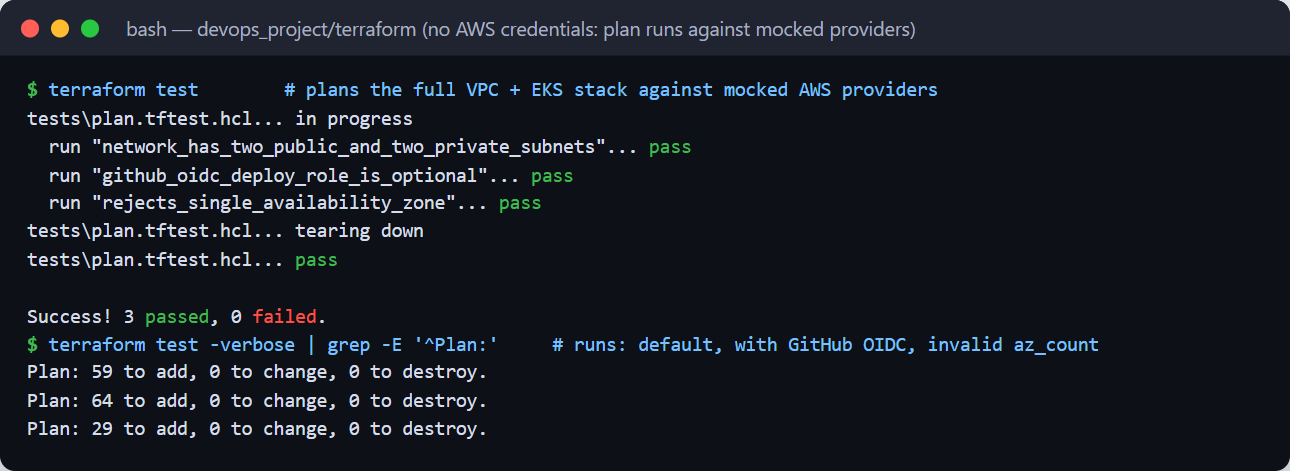
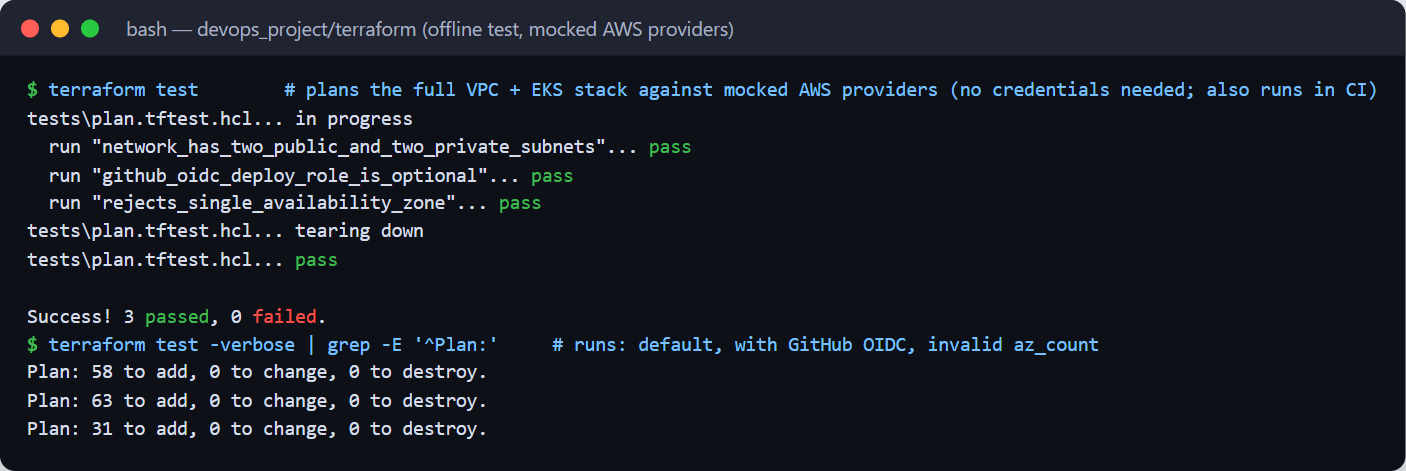
docs: add real AWS evidence for Terraform (plan, apply, Console, kubectl, destroy)

diff --git a/docs/SCREENSHOTS.md b/docs/SCREENSHOTS.md
@@ -83,20 +83,42 @@ Local environment: Docker Compose for M1/M4, and a 3-node **kind** Kubernetes cl
 
 Written explanation: [SECURITY.md](SECURITY.md#trivy-container-scanning-what-it-does-and-what-the-result-means).
 
-## M7 - Terraform
+## M7 - Terraform (real AWS)
 
-> **Still to do with your AWS account.** No AWS credentials were available when these were
-> captured, so the images below prove the code is valid and plans cleanly **against mocked
-> AWS providers**. They are not the real `terraform plan`. Add the real screenshots with
-> [AWS-EKS-GUIDE.md](AWS-EKS-GUIDE.md):
-> `terraform plan` · AWS Console VPC + EKS in ap-south-1 · `terraform destroy` (`scripts/eks-teardown.sh`).
+Provisioned on 2026-10-09 in AWS account `778977181553`, region **ap-southeast-2 (Sydney)**,
+then destroyed. Console screenshots taken in the AWS Console during that window.
 
 | Evidence | Image |
 |----------|-------|
 | `terraform fmt -check`, `init`, `validate`: valid | [m7-terraform-fmt-init-validate.png](screenshots/m7-terraform-fmt-init-validate.png) |
-| `terraform test`: plans 59 / 64 resources, 3 tests passed (mocked AWS) | [m7-terraform-test-mocked-plan.png](screenshots/m7-terraform-test-mocked-plan.png) |
-| Planned VPC, 2 public + 2 private subnets, NAT, EKS cluster, node group (mocked AWS) | [m7-terraform-planned-resources-mocked.png](screenshots/m7-terraform-planned-resources-mocked.png) |
+| Real `terraform plan`: **Plan: 64 to add, 0 to change, 0 to destroy**, no errors | [m7-aws-terraform-plan.png](screenshots/m7-aws-terraform-plan.png) |
+| `terraform apply` complete: outputs (VPC, subnets, EKS endpoint), **58 managed resources** | [m7-aws-terraform-apply.png](screenshots/m7-aws-terraform-apply.png) |
+| **AWS Console: VPC** `stockpilot-vpc` (10.20.0.0/16), Available | [m7-aws-console-vpc.png](screenshots/m7-aws-console-vpc.png) |
+| **AWS Console: subnets**: 2 public + 2 private across ap-southeast-2a/2b | [m7-aws-console-subnets.png](screenshots/m7-aws-console-subnets.png) |
+| Route tables: public subnets → Internet Gateway, private subnets → NAT gateway | [m7-aws-vpc-subnets-routes.png](screenshots/m7-aws-vpc-subnets-routes.png) |
+| **AWS Console: EKS cluster** `stockpilot-eks`: Active, Kubernetes 1.36 | [m7-aws-console-eks-cluster.png](screenshots/m7-aws-console-eks-cluster.png) |
+| **AWS Console: managed node group**: Active, 2 nodes | [m7-aws-console-eks-nodegroup.png](screenshots/m7-aws-console-eks-nodegroup.png) |
+| `kubectl get nodes`: 2 worker nodes **Ready**; system pods running | [m7-aws-eks-cluster-nodes.png](screenshots/m7-aws-eks-cluster-nodes.png) |
+| `terraform destroy` via `scripts/eks-teardown.sh`: **Destroy complete! Resources: 58 destroyed**; the sweep shows nothing left (the 2 listed instances are `terminated`) | [m7-aws-terraform-destroy.png](screenshots/m7-aws-terraform-destroy.png) |
+| Offline `terraform test` (mocked AWS, also runs in CI): 3 passed | [m7-terraform-test-mocked-plan.png](screenshots/m7-terraform-test-mocked-plan.png) |
 | `terraform.tfvars.example` (no credentials committed) | [../terraform/terraform.tfvars.example](../terraform/terraform.tfvars.example) |
+
+![eks](screenshots/m7-aws-console-eks-cluster.png)
+
+**What happened on the way (useful for the presentation).** The AWS Free-plan account has
+organization guardrails (service control policies). Each one surfaced as a clear error and was
+handled in code or configuration:
+
+1. **Region:** only Sydney is allowed. `aws_region = "ap-southeast-2"` in `terraform.tfvars`.
+2. **Instance types:** only free-tier-eligible ones. CloudTrail showed
+   "*The specified instance type is not eligible for Free Tier*" for `t3.medium`, so the node
+   group uses `m7i-flex.large`, which is eligible and has 8 GiB.
+3. **IAM OIDC providers are forbidden.** The EBS CSI driver was moved from IRSA to **EKS Pod
+   Identity** (`terraform/eks.tf`, `enable_irsa = false`). The optional GitHub keyless-deploy
+   role was disabled (`github_repository = ""`).
+
+The first plan (64 resources) included the GitHub OIDC role. The final environment had
+58 managed resources.
 
 ## M8 - Kubernetes + Helm (local kind cluster)
 

diff --git a/docs/SUBMISSION-CHECKLIST.md b/docs/SUBMISSION-CHECKLIST.md
@@ -3,13 +3,13 @@
 Legend: ✅ implemented and verified in this repo · 📸 evidence *you* capture (command given) ·
 👤 needs your own GitHub/AWS account.
 
-> **Status (2026-10-08):** the repository is public at
+> **Status (2026-10-09):** the repository is public at
 > https://github.com/milesmoralis2411/devops_project_24bcs10326, the pipeline is green
 > ([run 37806352226](https://github.com/milesmoralis2411/devops_project_24bcs10326/actions/runs/37806352226)),
-> both images are public in GHCR with SHA tags, and screenshots for M1–M6, M8 and M9 are in
-> **[SCREENSHOTS.md](SCREENSHOTS.md)**.
-> **Still open:** M7's real AWS screenshots (`terraform plan`, AWS Console, `terraform destroy`)
-> and the M10 live demo. Optionally redo the M8/M9 screenshots on EKS.
+> both images are public in GHCR with SHA tags, and the AWS VPC + EKS environment was
+> provisioned with Terraform, captured (plan, apply, AWS Console, kubectl) and destroyed.
+> Evidence for every module is in **[SCREENSHOTS.md](SCREENSHOTS.md)**.
+> **Still open:** only the M10 live demo.
 
 Before you start: `docker compose up --build` for M1/M4, `scripts/local-k8s-up.sh` for the
 local Kubernetes evidence (M8/M9), and the [AWS guide](AWS-EKS-GUIDE.md) for M7 and the EKS
@@ -85,19 +85,19 @@ versions of M8/M9.
 
 📸 👤 Expand the *Trivy security gate* step in the Actions log.
 
-## M7: Terraform (15) 👤 needs AWS
+## M7: Terraform (15)
 
 | Criterion | Evidence |
 |-----------|----------|
 | Valid HCL in `terraform/` (2) | ✅ `terraform fmt -check` + `terraform validate` pass (also in CI) |
 | `terraform init` OK (1) | ✅ |
-| `terraform plan` non-empty, no errors (2) | ✅ offline proof: `terraform test` plans 59/64 resources with mocked AWS · 📸 real `terraform plan` |
-| VPC with ≥ 2 public subnets (3) | ✅ 2 public + 2 private subnets in 2 AZs |
-| EKS with a worker node group (4) | ✅ managed node group `default`, 2 × t3.medium |
-| `terraform destroy` clean (2) | ✅ `scripts/eks-teardown.sh` removes Kubernetes-created AWS resources first |
+| `terraform plan` non-empty, no errors (2) | ✅ real plan: `Plan: 64 to add` against AWS (ap-southeast-2) |
+| VPC with ≥ 2 public subnets (3) | ✅ provisioned: `stockpilot-vpc`, 2 public + 2 private subnets in 2 AZs (Console screenshots) |
+| EKS with a worker node group (4) | ✅ provisioned: `stockpilot-eks` (1.36, Active), managed node group with 2 × m7i-flex.large Ready |
+| `terraform destroy` clean (2) | ✅ `scripts/eks-teardown.sh` → `Destroy complete!`, no leftovers |
 | `terraform.tfvars.example`, no credentials (1) | ✅ present; `terraform.tfvars`/state git-ignored |
 
-📸 `terraform plan` output · AWS Console: VPC + subnets and the EKS cluster/node group in ap-south-1 · `Destroy complete!`.
+📸 Done: `docs/screenshots/m7-aws-*.png` (plan, apply, Console VPC/subnets/EKS/node group, kubectl, destroy).
 
 ## M8: Kubernetes + Helm (15)
 
